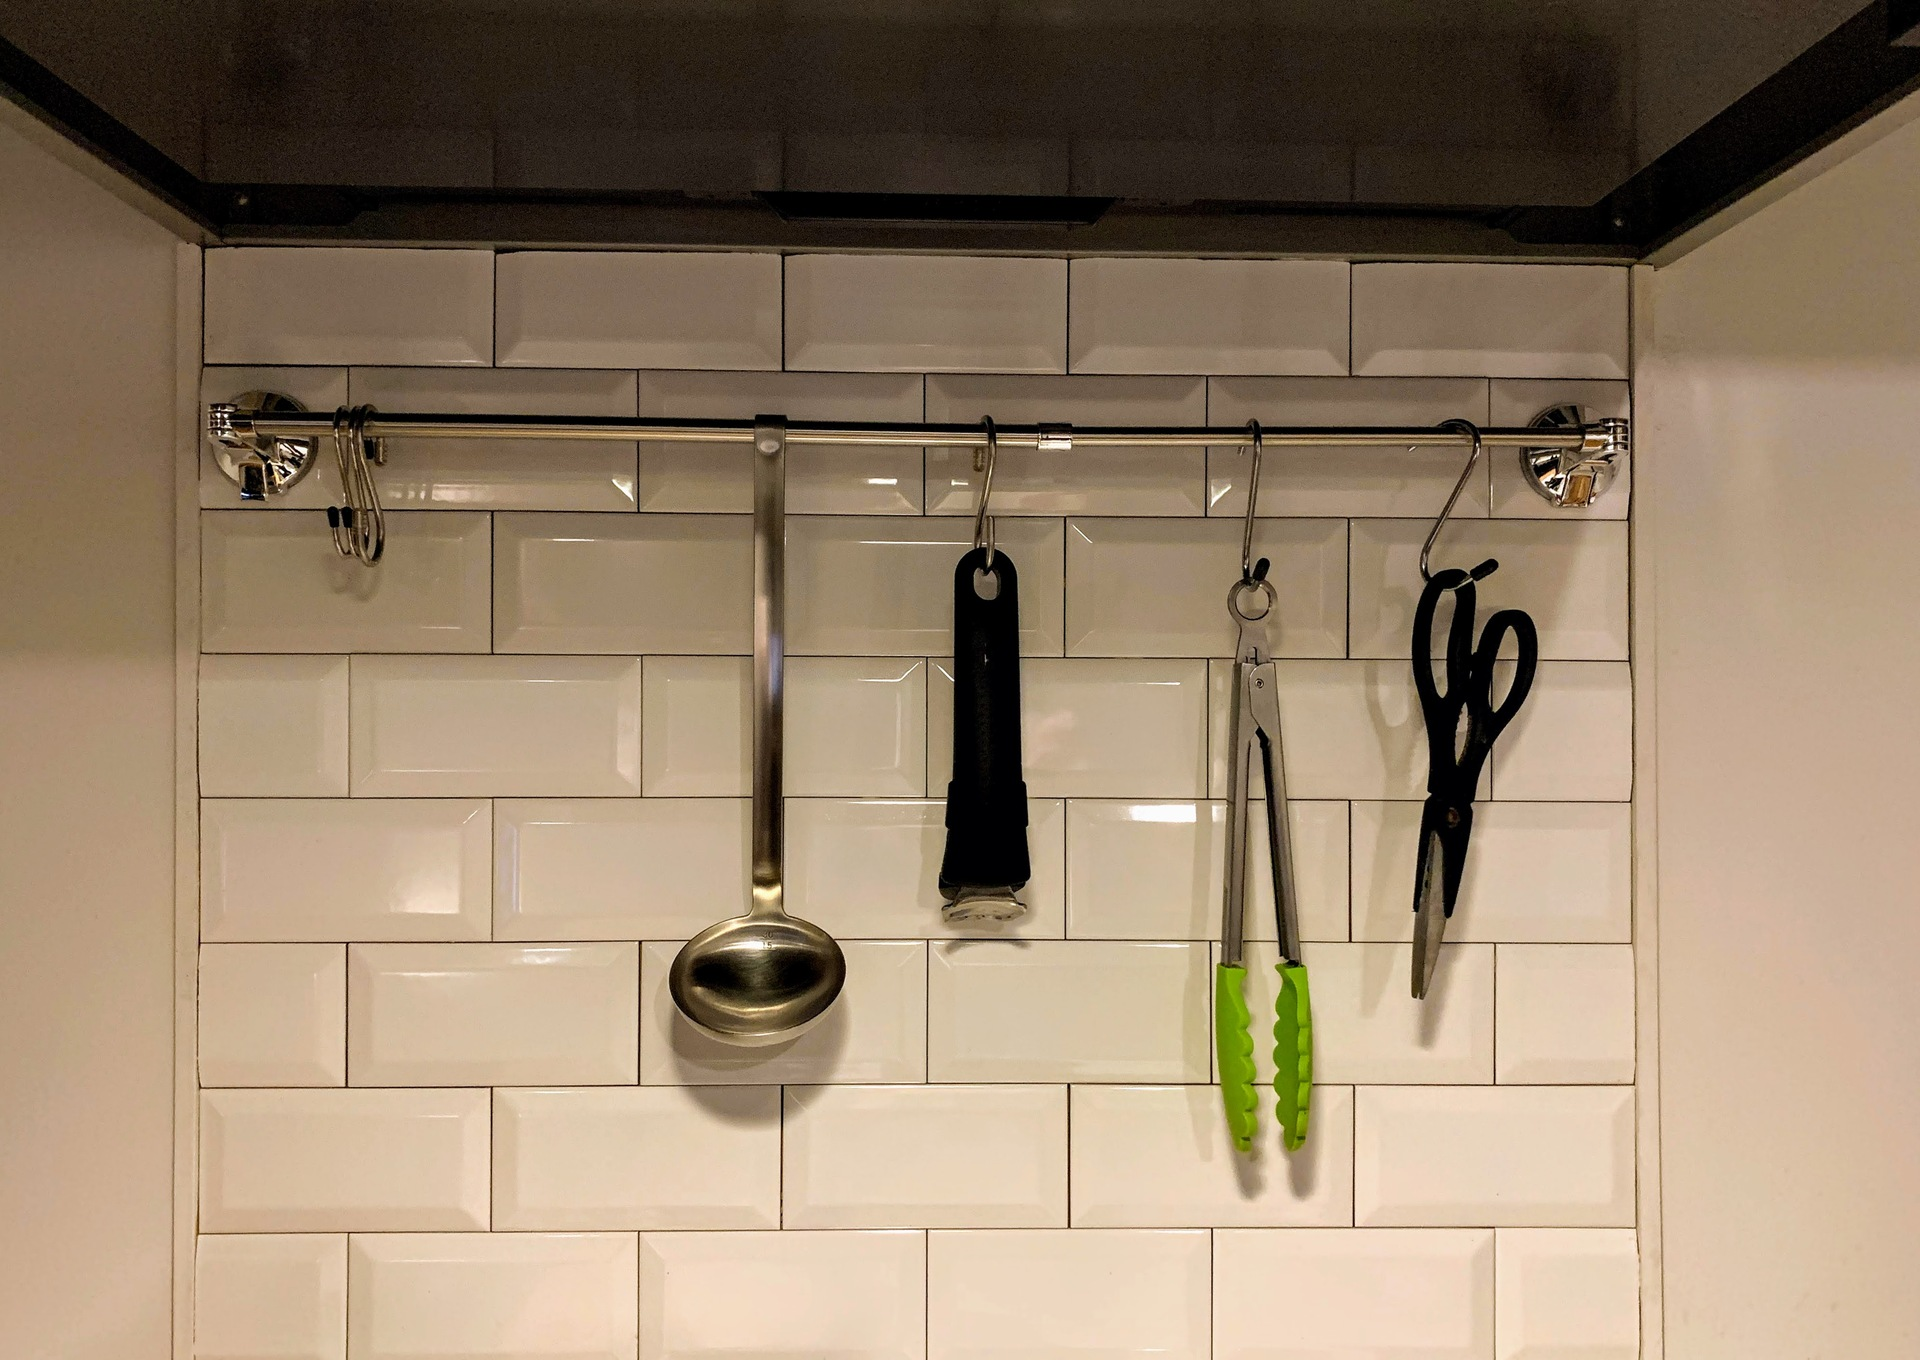
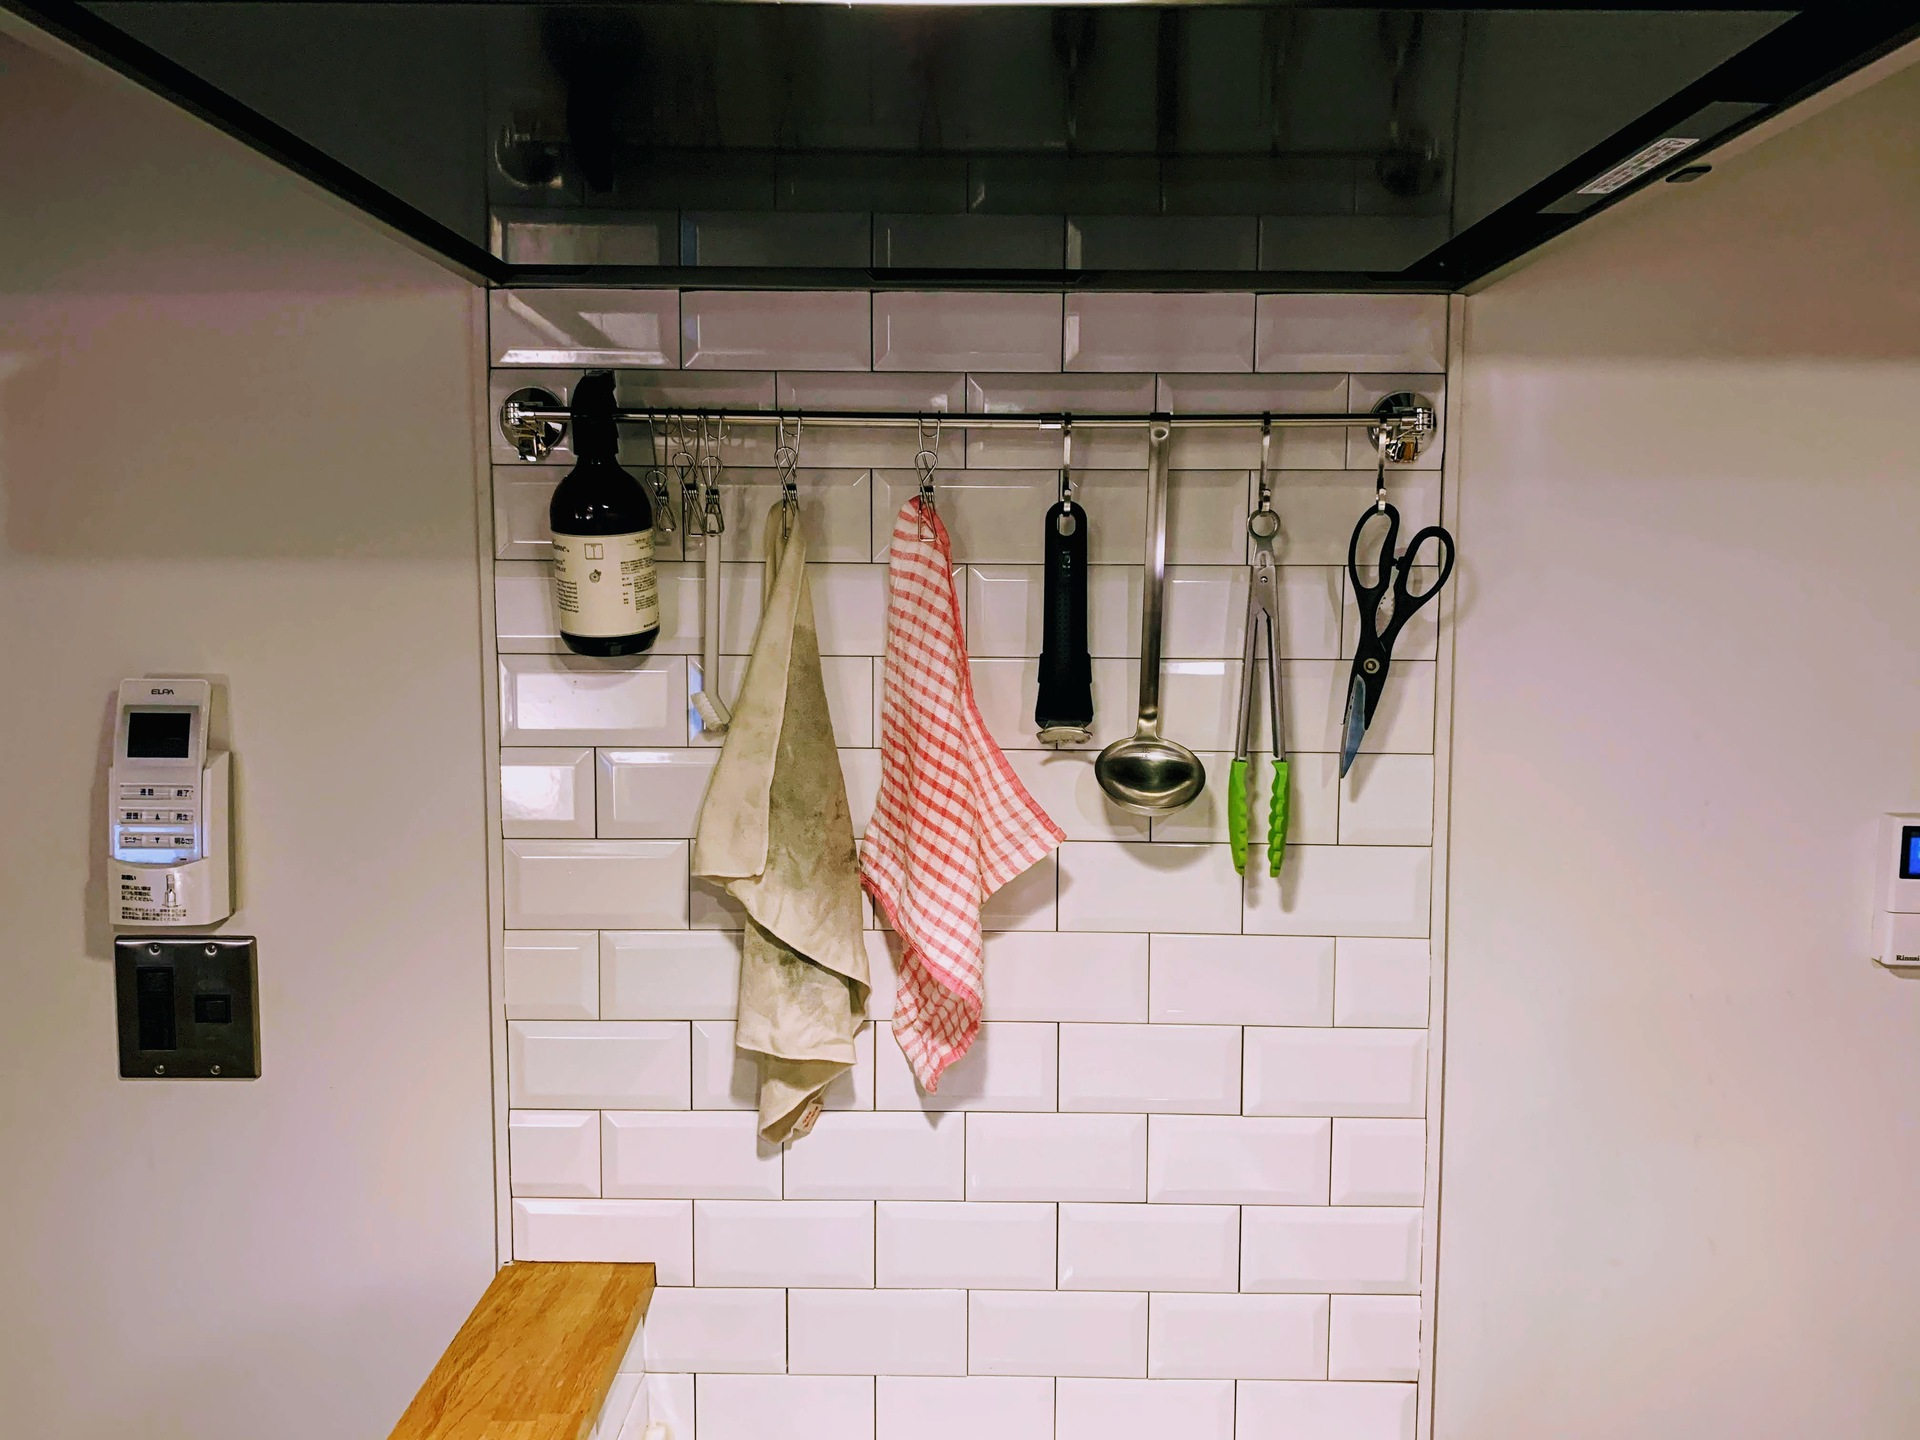
Update article

diff --git a/articles/2020-10-08-kitchen-tool-hanger.md b/articles/2020-10-08-kitchen-tool-hanger.md
@@ -2,9 +2,9 @@
 title: キッチンツールハンガー
 ---
 
-![](/images/2020-10-08-kitchen-tool-hanger.jpg)
+調理器具を吊るために、[レックのタオルハンガー](https://www.amazon.co.jp/dp/B073J5NZK2/?tag=r7kamura07-22)を買った。
 
-キッチン用品を吊りたいと思い、いろいろ調べて[レックのステンレス製で伸縮式でレバー式吸盤のやつ](https://www.amazon.co.jp/dp/B073J5NZK2/?tag=r7kamura07-22)を買った。
+![](/images/2020-10-08-kitchen-tool-hanger.jpg)
 
 うちのレンジフードにはあまり良い引っ掛けポイントが無いため、上手く道具を吊るには吸盤式の何かを壁面に付けるしかなかった。吸盤式と言うと、吸着力が低くすぐに落ちてしまうものが多いので、吸着力がより高いものを探すことに。
 
@@ -14,7 +14,7 @@ title: キッチンツールハンガー
 - ボタン式
 - ダイヤル式
 
-などが存在しているらしい。また、うちの壁面はタイルっぽい加工でいささか難しいことになっているため、伸縮式・回転式でとにかく自由度の高いものをと探していたところ、レックからちょうど良さそうな製品が出ているのを見つけたので、使ってみることにした。
+などが存在しているらしい。また、うちの壁面はタイルっぽい加工でいささか難しいことになっているため、伸縮式・回転式でとにかく自由度の高いものをと探していたところ、レックからちょうど良さそうなレバー式吸盤型の製品が出ているのを見つけたので、使ってみることにした。
 
 耐荷重4kgとのことなので、鍋などを吊るには流石に不安があるが、これぐらいの軽い調理器具を吊る程度であれば十分な強度を備えていると思う。レバー式を選んだのはやはり正解で、本当にしっかりくっついている印象を受ける。とか言ってたら明日の朝落ちたりしてそうで怖い。
 
